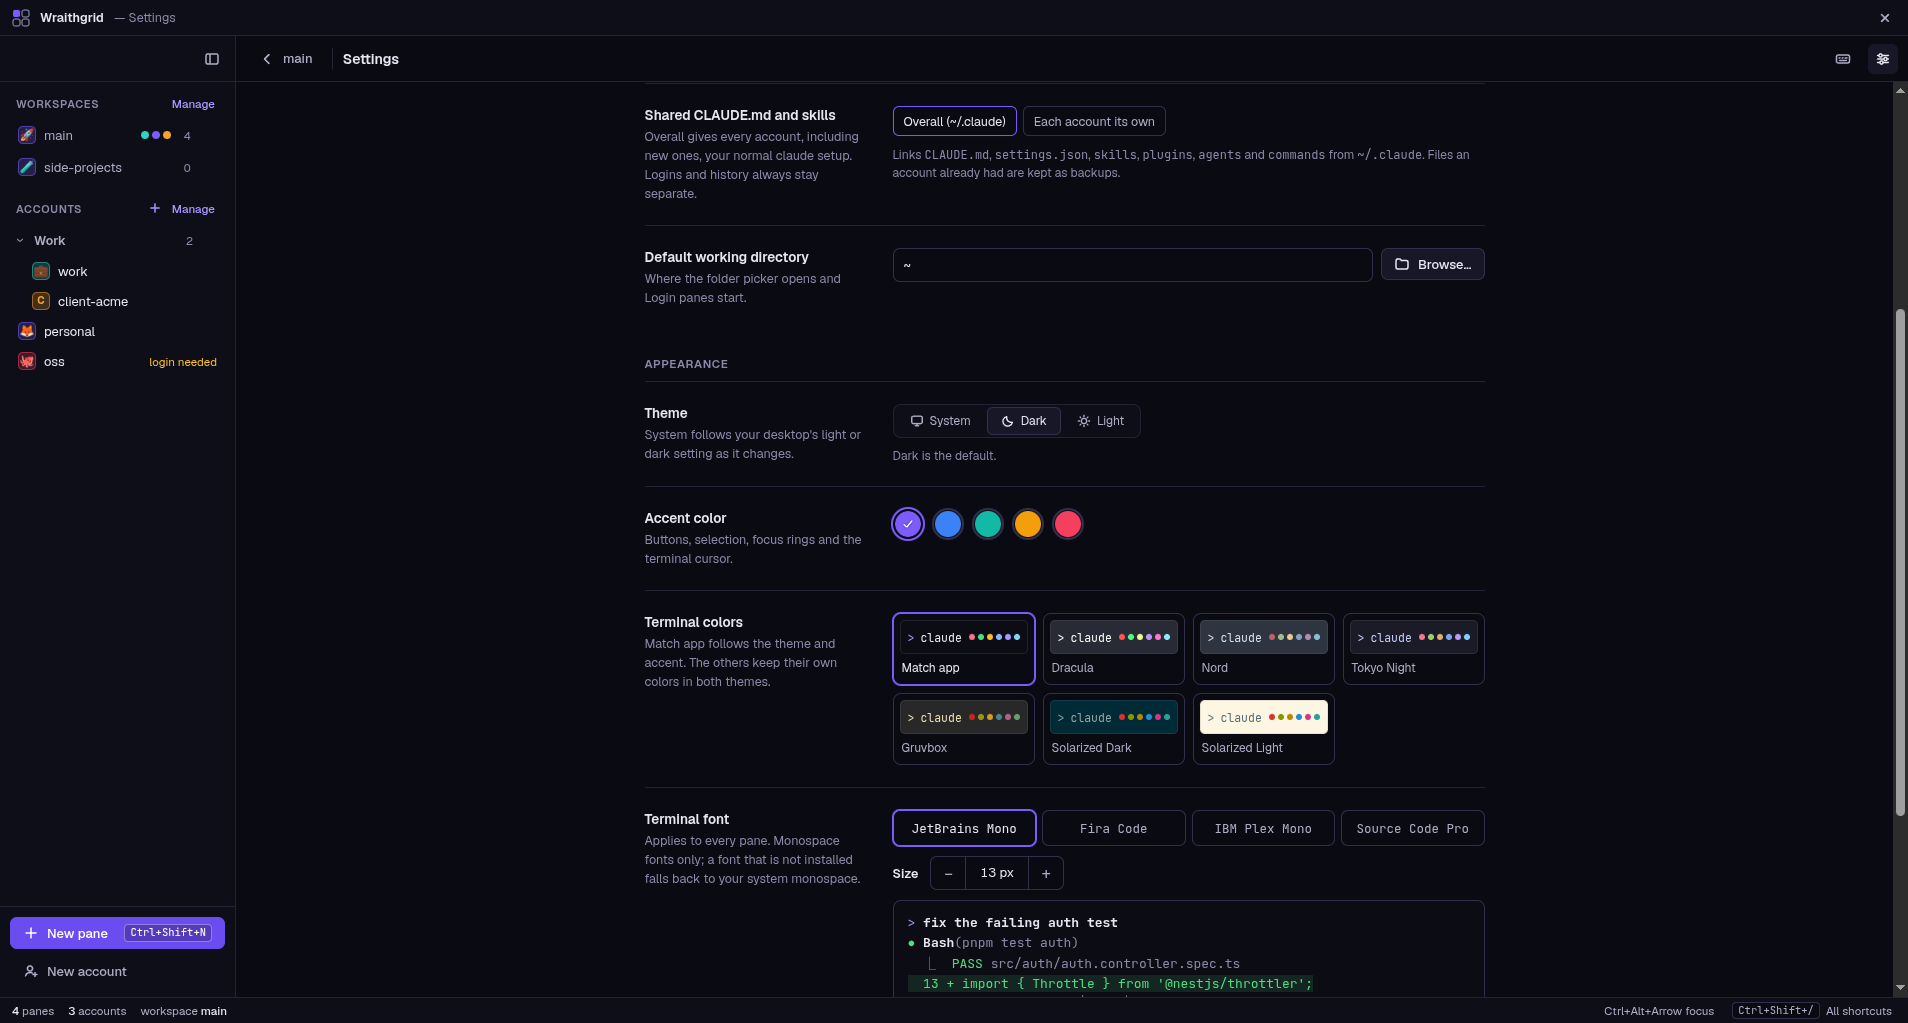
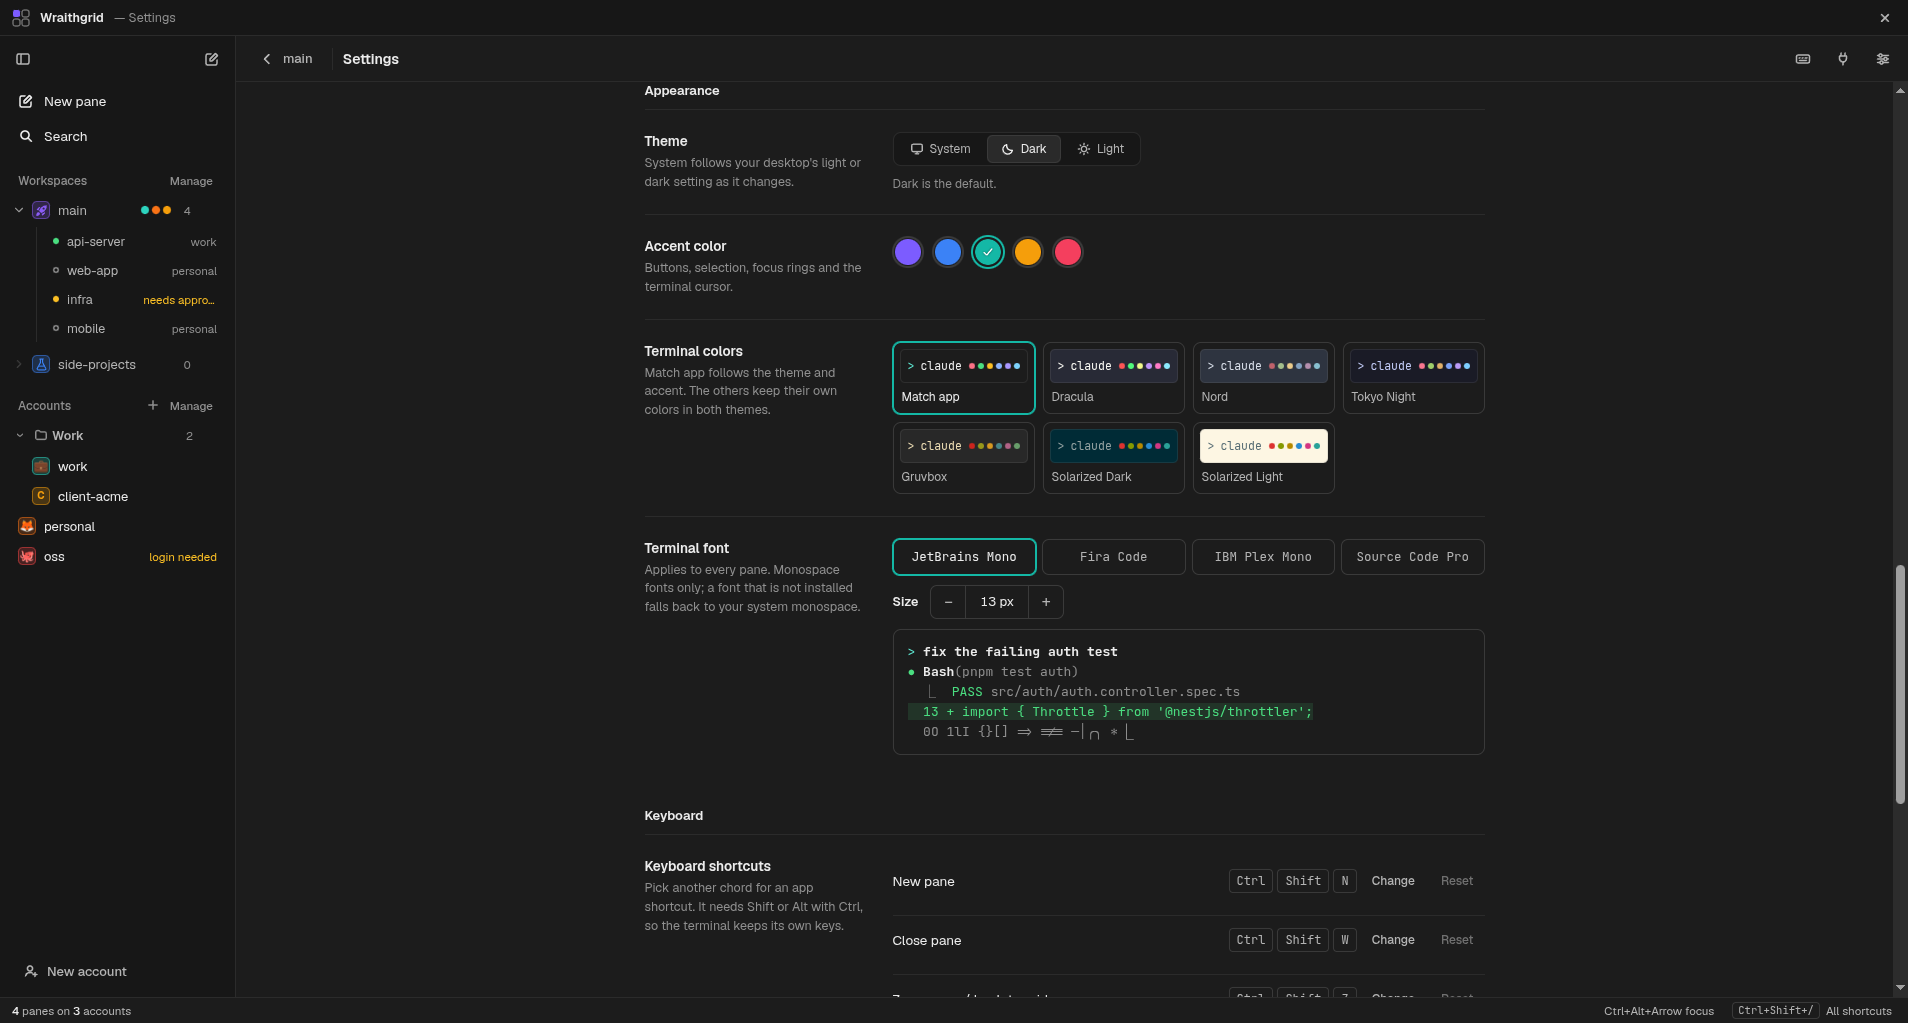
docs(readme): retake the screenshots from a repeatable staged demo
The README images predated the neutral restyle, the sidebar folders
and the icon library. The staged demo they were captured from was
never committed, so they could not be refreshed.

demo-claude.sh stands in for claude and prints a scripted session per
project folder: one run in progress (steady output keeps it
"running"), one waiting on an approval prompt, two idle.
readme-shots.spec.ts stages four accounts (two in a folder, one
signed out), two workspaces with icons and a 2x2 grid, and saves the
five README images at the old 1908x1023 size. It is skipped unless
WRAITHGRID_README_SHOTS names an output directory, so the normal e2e
run is unaffected.

The settings alt text no longer mentions the shared ~/.claude mode,
which is out of frame in the new shot. TODO.md also still called the
Herdr parity work (H1-H7) unreleased; it shipped in v1.10.0.

diff --git a/tests/e2e/readme-shots.spec.ts b/tests/e2e/readme-shots.spec.ts
@@ -1,0 +1,155 @@
+import fs from 'node:fs'
+import os from 'node:os'
+import path from 'node:path'
+import { _electron as electron, expect, test } from '@playwright/test'
+
+// The README screenshots, from a staged demo: `bun run build`, then
+// `WRAITHGRID_README_SHOTS=docs/screenshots ./node_modules/.bin/playwright test readme-shots`.
+const ROOT = path.resolve(__dirname, '../..')
+const MAIN = path.join(ROOT, 'out/main/index.js')
+const DEMO_CLAUDE = path.join(ROOT, 'tests/fixtures/demo-claude.sh')
+const OUT = process.env.WRAITHGRID_README_SHOTS
+
+test.skip(!OUT || process.platform === 'win32', 'set WRAITHGRID_README_SHOTS=<dir> (POSIX only)')
+
+const account = (id: string, name: string, color: string, icon: string, extra = {}) => ({
+  id,
+  name,
+  configDir: `~/.wraithgrid/accounts/${name}`,
+  color,
+  signedIn: true,
+  imported: false,
+  icon,
+  folderId: null,
+  ...extra
+})
+const pane = (id: string, accountId: string, folder: string) => ({
+  id,
+  accountId,
+  cwd: `~/code/${folder}`,
+  title: folder
+})
+const row = (a: string, b: string) => ({
+  type: 'split',
+  dir: 'row',
+  sizes: [50, 50],
+  children: [
+    { type: 'pane', paneId: a },
+    { type: 'pane', paneId: b }
+  ]
+})
+
+test('README screenshots', async () => {
+  const out = path.resolve(OUT!)
+  const tmp = fs.mkdtempSync(path.join(os.tmpdir(), 'wraithgrid-shots-'))
+  const home = path.join(tmp, 'home')
+  const userData = path.join(tmp, 'userdata')
+  for (const f of ['api-server', 'web-app', 'infra', 'mobile'])
+    fs.mkdirSync(path.join(home, 'code', f), { recursive: true })
+  fs.mkdirSync(userData, { recursive: true })
+  fs.mkdirSync(out, { recursive: true })
+  fs.writeFileSync(
+    path.join(userData, 'config.json'),
+    JSON.stringify({
+      version: 1,
+      claudePath: DEMO_CLAUDE,
+      accountFolders: [{ id: 'f-work', name: 'Work', collapsed: false, icon: '', color: '' }],
+      accounts: [
+        account('a-work', 'work', '#2dd4bf', '💼', { folderId: 'f-work' }),
+        account('a-acme', 'client-acme', '#f59e0b', '', { folderId: 'f-work' }),
+        account('a-personal', 'personal', '#f97316', '🦊'),
+        account('a-oss', 'oss', '#ef4444', '🐙', { signedIn: false })
+      ],
+      workspaces: [
+        {
+          id: 'ws-main',
+          name: 'main',
+          icon: 'material:rocket-launch',
+          color: '#8b5cf6',
+          panes: [
+            pane('p-api', 'a-work', 'api-server'),
+            pane('p-web', 'a-personal', 'web-app'),
+            pane('p-infra', 'a-acme', 'infra'),
+            pane('p-mobile', 'a-personal', 'mobile')
+          ],
+          layout: {
+            type: 'split',
+            dir: 'col',
+            sizes: [50, 50],
+            children: [row('p-api', 'p-web'), row('p-infra', 'p-mobile')]
+          }
+        },
+        {
+          id: 'ws-side',
+          name: 'side-projects',
+          icon: 'lucide:flask-conical',
+          color: '#3b82f6',
+          panes: [],
+          layout: null
+        }
+      ],
+      activeWorkspace: 'ws-main',
+      recentFolders: ['~/code/api-server', '~/code/web-app'],
+      settings: { sharedMode: 'overall', checkUpdatesOnLaunch: false, theme: 'dark' }
+    })
+  )
+  fs.mkdirSync(path.join(home, '.claude'), { recursive: true })
+
+  const app = await electron.launch({
+    args: [MAIN],
+    env: { ...process.env, HOME: home, WRAITHGRID_USER_DATA_DIR: userData }
+  })
+  try {
+    const win = await app.firstWindow()
+    await win.setViewportSize({ width: 1908, height: 1023 })
+    const shot = (name: string) => win.screenshot({ path: path.join(out, name) })
+    const pane = (title: string) =>
+      win.locator('section.pane', { has: win.locator('.ph-title', { hasText: title }) })
+
+    // Every session has drawn, one is working and one waits for approval.
+    await expect(pane('mobile').locator('.xterm-rows')).toContainText('11 tests')
+    await expect(pane('web-app').locator('.xterm-rows')).toContainText('first paint.')
+    await expect(pane('infra')).toContainText('needs approval')
+    await expect(pane('api-server')).toContainText('running')
+    await expect(pane('web-app')).toContainText('idle', {
+      timeout: 15_000
+    })
+    await expect(pane('mobile')).toContainText('idle', {
+      timeout: 15_000
+    })
+    await pane('api-server').locator('.xterm-screen').click()
+    await win.waitForTimeout(800)
+    await shot('grid-dark.png')
+
+    await win.keyboard.press('Control+Shift+N')
+    await win.locator('#np-dir').fill('~/code/api-server')
+    await win.waitForTimeout(300)
+    await shot('new-pane.png')
+    await win.keyboard.press('Escape')
+
+    const side = win.getByRole('complementary', { name: 'Sidebar' })
+    await side.getByRole('button', { name: 'Manage' }).last().click()
+    await expect(win.getByRole('button', { name: 'Change the icon of work' })).toBeVisible()
+    await win.waitForTimeout(300)
+    await shot('accounts.png')
+
+    await win.getByRole('button', { name: 'Settings', exact: true }).click()
+    await win.getByRole('radio', { name: 'teal' }).click()
+    await win
+      .getByText('Appearance', { exact: true })
+      .evaluate((el) => el.scrollIntoView({ block: 'start' }))
+    await win.waitForTimeout(300)
+    await shot('settings.png')
+
+    await win.getByRole('radio', { name: 'Light', exact: true }).click()
+    await expect(win.locator('html')).toHaveAttribute('data-theme', 'light')
+    await side.locator('.ws-row', { hasText: 'main' }).click()
+    await expect(pane('api-server')).toBeVisible()
+    await pane('api-server').locator('.xterm-screen').click()
+    await win.waitForTimeout(800)
+    await shot('grid-light.png')
+  } finally {
+    await app.close()
+    fs.rmSync(tmp, { recursive: true, force: true })
+  }
+})

diff --git a/docs/CONTEXT.md b/docs/CONTEXT.md
@@ -61,7 +61,7 @@ react-resizable-panels, @dnd-kit. Tests: Vitest (unit), Playwright (Electron e2e
 - `src/renderer/layout/`: pure split-tree ops, presets, directional focus
 - `src/renderer/lib/`: PtyBus, status detection, terminal themes, ANSI strip, scheduling, diff parsing, palette search, term-osc (OSC 52 copy, OSC 9/777/99 notifications), mod-catalog (catalog search, merging the accounts' mod lists)
 - `src/renderer/styles/`: design tokens (neutral greys; accent only for focus/state) + base CSS
-- `tests/unit/`, `tests/e2e/`, `tests/fixtures/{fake-claude,raw-keys,fake-shell}.sh`: tests + fake CLIs (raw-keys prints input bytes as hex; fake-shell prints its args and leaked vars)
+- `tests/unit/`, `tests/e2e/`, `tests/fixtures/{fake-claude,raw-keys,fake-shell,demo-claude}.sh`: tests + fake CLIs (raw-keys prints input bytes as hex; fake-shell prints its args and leaked vars; demo-claude = scripted sessions for README shots)
 - `scripts/`: Docker Linux build, multi-distro package smoke test; `icon-sets.ts` = Vite plugin building `virtual:icon-sets` (trimmed Material + Lucide); `install.sh` = one-line installer (SHA256SUMS check); `update-packaging.sh <ver>` = fill packaging/ from a release
 - `packaging/`: Homebrew cask, winget manifests, AUR PKGBUILD (publish steps in its README)
 - `build/`: icons; `.github/workflows/`: build.yml (CI checks; packages only when release.yml calls it), release.yml (tag → release)
@@ -115,7 +115,7 @@ react-resizable-panels, @dnd-kit. Tests: Vitest (unit), Playwright (Electron e2e
 - Icons: SVG bodies only come from bundled data via `iconBody` (own keys); never render an icon string from config as HTML. New icon packages must respect `minimumReleaseAge` in bunfig.toml (pin an older version rather than adding an exclude).
 - Tests: never pass `os.devNull` to git (Windows `\\.\nul` is refused); use a temp file.
 - Tests under the node tsconfig can't import `.tsx`: keep testable logic in `src/renderer/lib/`.
-- Env `WRAITHGRID_E2E_SHOTS=<dir>` makes `git-palette.spec.ts` and `mods.spec.ts` save screenshots.
+- Env `WRAITHGRID_E2E_SHOTS=<dir>` makes `git-palette.spec.ts` and `mods.spec.ts` save screenshots. README images: `bun run build`, then `WRAITHGRID_README_SHOTS=docs/screenshots ./node_modules/.bin/playwright test readme-shots` (skipped without the env).
 - Electron 44's main `clipboard` is the async web-style API (`read()` → ClipboardItem, `getType`); no `readImage`.
 - Image paste: claude's own Ctrl+V clipboard read misses some screenshots; Wraithgrid intercepts Ctrl+V in agent panes (not on macOS) and pastes a saved file path instead.
 - `agy` and opencode have no per-account dir (shared sign-in); codex/cursor/copilot may keep the sign-in in the keyring (`dir-unchecked`). Non-claude binaries: `settings.cliPaths`, else PATH.

diff --git a/docs/TODO.md b/docs/TODO.md
@@ -1,7 +1,7 @@
 # TODO
 
 ## Now
-- Herdr parity (2026-10-19, branch feat/pty-host-20261019): verify on Windows (named pipe host, ConPTY in a detached ELECTRON_RUN_AS_NODE process, NSIS update closing the host) and macOS (host from the .app, tray, ⌘Q asks); a real ssh machine for H5; NFR-1: memory/CPU of the host with 8 busy panes (headless xterm per pane)
+- Herdr parity (released in v1.10.0): verify on Windows (named pipe host, ConPTY in a detached ELECTRON_RUN_AS_NODE process, NSIS update closing the host) and macOS (host from the .app, tray, ⌘Q asks); a real ssh machine for H5; NFR-1: memory/CPU of the host with 8 busy panes (headless xterm per pane)
 - Windows: `wraithgrid` CLI prints nothing in a console (GUI-subsystem exe); needs AttachConsole or a `wraithgrid.cmd` shim
 - H5 follow-ups: a machine's own `wraithgrid` path (AppImage/macOS remote), remote sign-in state per machine (login banner uses the local flag), remote Mods/Changes panel (local only today)
 - H6 follow-up: a prompt sent with `wraithgrid send` does not set `hasConversation` (resume on restore skips it)
@@ -24,10 +24,9 @@
 - macOS: try a CI-built dmg on a real Mac (Apple Silicon + Intel): first launch via Gatekeeper, ⌘ shortcuts, ⌘C/V in panes, claude found from the Dock, notifications
 - macOS: Developer ID signing + notarization when an Apple developer account exists (CSC_LINK, APPLE_ID, APPLE_APP_SPECIFIC_PASSWORD, APPLE_TEAM_ID secrets), then enable in-app updates there
 - Test an in-app update 1.3.0 → 1.3.1 (1.3.0 is the first release with it; install 1.3.0 by hand once)
-- Refresh README screenshots for the neutral restyle (screens from `WRAITHGRID_E2E_SHOTS`)
 
 ## Herdr parity
-H1–H7 built (2026-10-19, unreleased, see Done); H8 publishing needs the accounts (Now).
+H1–H7 released in v1.10.0; H8 publishing needs the accounts (Now).
 
 ## Later
 - `agy`/opencode per-account isolation if they gain a config-dir variable
@@ -36,6 +35,7 @@ H1–H7 built (2026-10-19, unreleased, see Done); H8 publishing needs the accoun
 ## Done (2026-10-21)
 - account-folders e2e flake fixed (wait for the drop target)
 - Mods: Update button for downloaded mods; every mod of a multi-mod claudemod.com repo listed
+- README screenshots retaken (repeatable: readme-shots.spec.ts)
 
 ## Done (2026-10-19)
 - Switch branch from the pane chip, Changes panel, pane menu and palette (branch picker)

diff --git a/CHANGELOG.md b/CHANGELOG.md
@@ -5,6 +5,8 @@
 - [test] account-folders e2e flake (~1 in 24 with parallel workers): release the drag only once the folder shows `over` (dnd-kit lagged the pointer); 160/160 runs pass (files: tests/e2e/account-folders.spec.ts)
 - [mods] claudemod.com: a repository's marketplace lists all its mods (the site entry's first, up to 20), shared repos listed once (files: src/main/mod-community.ts, tests/unit/mod-community.test.ts)
 - [mods] **Update** on downloaded mod folders (`~/.wraithgrid/mods/<name>`): `mods:pull` runs `git pull --ff-only`, says Updated / Up to date (files: src/shared/{ipc-channels,ipc-contract,mods}.ts, src/preload/index.ts, src/main/ipc.ts, src/renderer/components/ModsView.tsx, tests/unit/mods.test.ts, tests/e2e/mods.spec.ts)
+- [docs] TODO: Herdr parity notes said "unreleased"; H1–H7 shipped in v1.10.0 (files: docs/TODO.md)
+- [docs] README screenshots retaken for the current UI from a staged demo; repeatable via `readme-shots.spec.ts` + `demo-claude.sh` (files: docs/screenshots/*.png, README.md, tests/e2e/readme-shots.spec.ts, tests/fixtures/demo-claude.sh)
 
 ## 2026-10-20
 

diff --git a/README.md b/README.md
@@ -77,7 +77,7 @@ Wraithgrid never reads, copies or proxies anything inside those folders.
   </tr>
   <tr>
     <td width="50%">
-      <img src="docs/screenshots/settings.png" alt="Settings with shared ~/.claude mode, theme, accent color, terminal palette and font" />
+      <img src="docs/screenshots/settings.png" alt="Settings: theme, accent color, terminal colors and font" />
       <p align="center"><b>Settings</b>: shared <code>~/.claude</code>, theme, accent, terminal colors and font</p>
     </td>
     <td width="50%">
